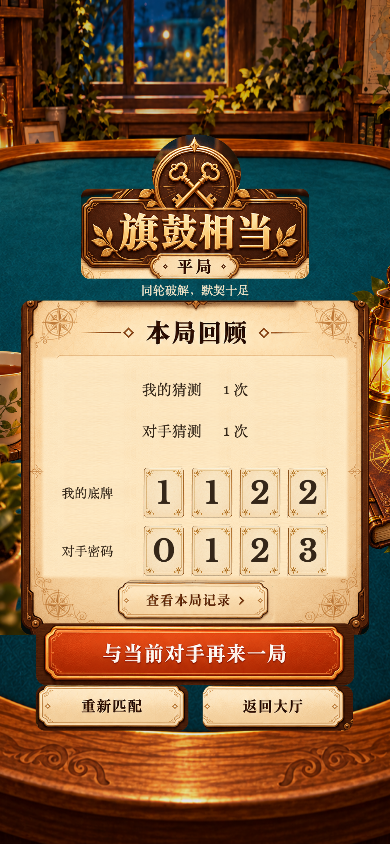
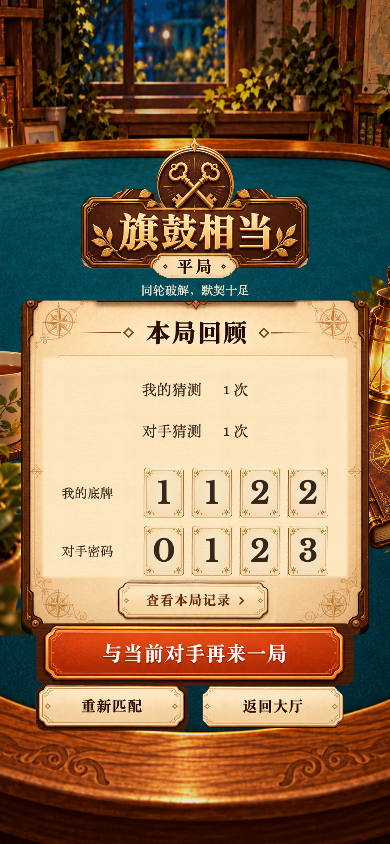
fix(ui): clean control cutouts and polish game page details

diff --git a/assets/scripts/GameApp.ts b/assets/scripts/GameApp.ts
@@ -37,6 +37,7 @@ export class GameApp extends Component {
   private roundNew?: Node;
   private feedbackArt!: FeedbackArt;
   private suppressFeedback = false;
+  private opponentFeedbackActive = false;
   private rematchNotice = '';
   private loginFailed = false;
   private endFeedbackUntil = 0;
@@ -274,7 +275,14 @@ export class GameApp extends Component {
     }
     return n;
   }
+  private setOpponentSeatVisible(visible: boolean) {
+    const room=this.root?.getChildByName('BattleRoom');
+    for(const name of ['PlayerPortrait','PlayerPortraitRim','Battle-nameplate','Battle-card-backs','OpponentNickname']) {
+      const node=room?.getChildByName(name);if(node)node.active=visible;
+    }
+  }
   private clearEffects() {
+    this.opponentFeedbackActive=false;this.setOpponentSeatVisible(true);
     if (!this.effects?.isValid) return;
     const stop = (n: Node) => { Tween.stopAllByTarget(n); const opacity = n.getComponent(UIOpacity); if (opacity) Tween.stopAllByTarget(opacity); n.children.forEach(stop); };
     for (const child of [...this.effects.children]) { stop(child); child.removeFromParent(); child.destroy(); }
@@ -285,8 +293,11 @@ export class GameApp extends Component {
   private showFeedback(event: FeedbackEvent, pending = false) {
     this.clearEffects();
     const available = this.screenHeight - this.layoutTop - bottomSafeInset() - 24;
-    const group = this.feedbackArt.group(this.effects, 'GuessFeedback', this.screenHeight / 2 - this.layoutTop - available * .29, Math.min(1, available / 1100));
     const opponent = event.kind === 'opponent', own = event.kind === 'own';
+    // Opponent feedback occupies the opponent seat, above the record sheet.
+    const battleScale = Math.min(750 / 941, (available + 8) / 1590);
+    const group = this.feedbackArt.group(this.effects, 'GuessFeedback', this.screenHeight / 2 - this.layoutTop - (opponent ? 160 * battleScale : available * .29), opponent ? battleScale : Math.min(1, available / 1100));
+    if(opponent) { group.setPosition(110*battleScale,group.position.y);group.setScale(battleScale*600/650,battleScale*600/650,1);this.opponentFeedbackActive=true;this.setOpponentSeatVisible(false); }
     const width = own ? 430 : event.kind === 'end' ? 480 : 650;
     if (this.feedbackArt.ready) {
       this.feedbackArt.image(group, event.art, 0, 0, width);
@@ -296,6 +307,8 @@ export class GameApp extends Component {
         value.font = this.friendDigitFont ?? null;
         this.feedbackArt.label(group, event.caption, 0, 126, 354, 58, 22);
       } else if (opponent) {
+        const peer = this.net.state?.room?.players.find(p => p.id !== this.net.state?.me.id);
+        if (peer) this.playerPortrait(group, peer, -230, -15, 92);
         const value = this.feedbackArt.label(group, `${event.hits} / 4`, 24, -8, 285, 96, 68, event.urgent ? '#751F23' : C.ink);value.font = this.friendDigitFont ?? null;
       } else if (event.kind === 'end') {
         // The fixed success/failure heading remains in the artwork. Overlay actual reason below.
@@ -308,7 +321,7 @@ export class GameApp extends Component {
     const opacity = group.addComponent(UIOpacity), motion = read('motion','1') === '1', scale = group.scale.clone();
     if (motion) { opacity.opacity = 0; group.setScale(scale.x*.92,scale.y*.92,1);tween(opacity).to(.16,{opacity:255}).start();tween(group).to(.2,{scale},{easing:'backOut'}).start(); }
     if (motion && opponent && event.hits === 0) tween(group).by(.07,{position:new Vec3(-6,0,0)}).by(.1,{position:new Vec3(12,0,0)}).by(.07,{position:new Vec3(-6,0,0)}).start();
-    if (!pending) tween(opacity).delay(event.urgent ? 1.8 : 1.5).to(motion ? .18 : 0,{opacity:0}).call(()=>{group.destroy();}).start();
+    if (!pending) tween(opacity).delay(event.urgent ? 1.8 : 1.5).to(motion ? .18 : 0,{opacity:0}).call(()=>{group.destroy();if(opponent){this.opponentFeedbackActive=false;this.setOpponentSeatVisible(true);}}).start();
   }
   private turnCue(message: string) {
     if (Date.now() < this.endFeedbackUntil) return;
@@ -673,10 +686,10 @@ export class GameApp extends Component {
     const group = this.n('FriendRoom', 375, 667, 941, 1672);
     group.setPosition(0, this.screenHeight / 2 - this.layoutTop + 32 * scale);
     group.setScale(scale, scale, 1);
-    // Keep navigation fixed; use tall-screen space below the body, like the reference.
+    // Keep navigation fixed and use only a small share of surplus height above the content.
     const bodyBottom = this.layoutTop + (1495 - 32) * scale;
     const targetBottom = this.screenHeight - bottomSafeInset() - Math.min(120, this.screenHeight * .09);
-    const bodyShift = Math.max(0, targetBottom - bodyBottom) / scale;
+    const bodyShift = Math.max(0, targetBottom - bodyBottom) / scale * .25;
     const place = (node: Node, x: number, y: number) => { node.setPosition(x - 470.5, -y - (y > 128 ? bodyShift : 0)); return node; };
     const art = (name: string, x: number, y: number, w: number, h: number, action?: () => void) => {
       const node = place(this.n('Friend-' + name, 375, 667, w, h, group), x, y);
@@ -737,7 +750,7 @@ export class GameApp extends Component {
     group.setPosition(0, this.screenHeight / 2 - this.layoutTop + 20 * scale); group.setScale(scale, scale, 1);
     const place = (node: Node, x: number, y: number) => { node.setPosition(x - 470.5, -y); return node; };
     const touch = (node: Node, action: () => void, enabled = true) => {
-      if (!enabled) { node.addComponent(UIOpacity).opacity = 170; return; }
+      if (!enabled) { const sprite = node.getComponent(Sprite); if (sprite) sprite.grayscale = true; node.addComponent(UIOpacity).opacity = 145; return; }
       node.on(Node.EventType.TOUCH_START, () => { if (read('motion', '1') === '1') node.setScale(.98, .98, 1); });
       node.on(Node.EventType.TOUCH_CANCEL, () => node.setScale(1, 1, 1));
       node.on(Node.EventType.TOUCH_END, () => { node.setScale(1, 1, 1); this.audio.unlock(); action(); });
@@ -760,10 +773,10 @@ export class GameApp extends Component {
     const shortName = (name: string, limit: number) => Array.from(name).length > limit ? Array.from(name).slice(0,limit-1).join('')+'…' : name;
     // The tray is below all controls and hands; each key remains independently clickable.
     art(prep ? 'tray' : 'play-tray');
-    art('opponent');
-    const nameplate=art('nameplate');
+    this.playerPortrait(group, opponent, 0, -65, 126);
+    const nameplate=art('nameplate',[355,134,586,179]);
     touch(nameplate,()=>this.toast(opponent.name+(opponent.online?'':' · 连接中')));
-    label(shortName(opponent.name,6),472,153,23,134,C.cream,30);
+    label(shortName(opponent.name,7),472,156,29,208,C.cream,38).node.name='OpponentNickname';
     art('card-backs');
     const nav = art('round');
     const navText = (value: string, x: number, width: number, parent = nav) => {
@@ -789,13 +802,13 @@ export class GameApp extends Component {
     touch(nav, () => { if (prep) this.ask('leave',()=>this.act('leave')); else { this.overlay='gameMenu';this.render(); } });
     const editable = !this.busy && this.net.online && (prep ? !r.ownSecret : r.current === me.id && this.net.now() >= r.startAt);
     if (prep) {
-      art('status'); label(opponent.ready ? '对手已准备' : '对手正在设置',470,323,23,170,C.cream);
+      art('status',[355,299,586,344]); label(opponent.ready ? '对手已准备' : '对手正在设置',470,323,28,215,C.cream);
       art('heading'); art('timer');
       this.timerLabel=label('',497,489,42,70,'#FFD978',54);
       if(this.friendDigitFont) this.timerLabel.font=this.friendDigitFont;
       this.timerLabel.lineHeight=46;
       label('s',540,493,29,20,'#FFD978',38);
-      const rules=art('rules'); touch(rules,()=>{this.overlay='rules';this.render();});
+      const rules=art('rules',[243,523,699,589]); touch(rules,()=>{this.overlay='rules';this.render();});
       const value=r.ownSecret ?? this.draft;
       // Palm behind the cards; only the isolated thumb crosses their front edge.
       art('hand-right');
@@ -849,12 +862,13 @@ export class GameApp extends Component {
       const rim=this.profileArt.get('portrait-frame');
       if(rim) art('portrait-frame',[23,995,213,1185],rim);
       art('nameplate',[18,1154,213,1192]);
-      label(shortName(me.name,7),115,1173,24,181,C.cream);
-      const secretStatus=art('status',[315,1106,626,1151]);
+      label(shortName(me.name,6),115,1173,29,181,C.cream);
+      const secretStatus=art('status',[285,1100,656,1155]);
       touch(secretStatus,()=>{this.hideSecret=!this.hideSecret;this.render();});
-      label(this.hideSecret?'底牌已隐藏 · 点击查看':'我的底牌 · 已锁定',470,1128,23,280,C.cream);
+      label(this.hideSecret?'底牌已隐藏 · 点击查看':'我的底牌 · 已锁定',470,1128,28,350,C.cream);
       art('turn');this.timerLabel=label('',470,1190,28,330,C.cream,48);
     }
+    if(this.opponentFeedbackActive)this.setOpponentSeatVisible(false);
     const prefix=prep?'prep-':'play-';
     for(const key of ['1','2','3','4','5','6','7','8','9','delete','0','action']) {
       const node=art(prefix+key);
@@ -992,16 +1006,28 @@ export class GameApp extends Component {
       if(result.confirm&&this.isValid&&!this.net.state?.room&&this.net.state?.queuedAt===null)this.openProfile();
     }});
   }
-  private avatarFrame(profile: { avatarUrl?: string }): SpriteFrame | undefined {
-    const url=avatarUrl(profile.avatarUrl);if(!url)return;
-    if(this.remoteAvatars.has(url))return this.remoteAvatars.get(url)??undefined;
+  private avatarFrame(profile: { avatarUrl?: string; avatar?: number }): SpriteFrame | undefined {
+    const fallback = this.profileArt.get('avatar-' + (((profile.avatar ?? 0) % 4 + 4) % 4));
+    const url=avatarUrl(profile.avatarUrl);if(!url)return fallback;
+    if(this.remoteAvatars.has(url))return this.remoteAvatars.get(url)??fallback;
     this.remoteAvatars.set(url,null);
     assetManager.loadRemote<ImageAsset>(url,{ext:'.png'},(error,image)=>{
       if(error||!this.isValid)return;
       const texture=new Texture2D();texture.image=image;
       const frame=new SpriteFrame();frame.texture=texture;this.remoteAvatars.set(url,frame);this.render();
     });
-    return;
+    return fallback;
+  }
+  /** Reuse the same circular identity in the opponent seat and transient feedback. */
+  private playerPortrait(parent: Node, profile: { avatar: number; avatarUrl?: string }, x: number, y: number, size: number) {
+    const clip = this.n('PlayerPortrait',375,667,size,size,parent);clip.setPosition(x,y);
+    clip.addComponent(Mask).type = Mask.Type.GRAPHICS_ELLIPSE;
+    const face = this.n('PlayerPortraitImage',375,667,size,size,clip);face.setPosition(0,0);
+    const sprite = face.addComponent(Sprite);sprite.spriteFrame = this.avatarFrame(profile) ?? null;sprite.sizeMode = Sprite.SizeMode.CUSTOM;
+    face.getComponent(UITransform)!.setContentSize(size,size);
+    const rim = this.n('PlayerPortraitRim',375,667,size*1.1,size*1.1,parent);rim.setPosition(x,y);
+    const frame = rim.addComponent(Sprite);frame.spriteFrame=this.profileArt.get('portrait-frame')??null;frame.sizeMode=Sprite.SizeMode.CUSTOM;
+    rim.getComponent(UITransform)!.setContentSize(size*1.1,size*1.1);
   }
   private async authorizeProfile() {
     if(this.busy||this.profileMotion)return;
@@ -1034,7 +1060,7 @@ export class GameApp extends Component {
   private async copyRoomCode(code: string) {try{await copy(code);this.toast('口令已复制：'+code);}catch(e){this.toast((e as Error).message);}}
   private openProfile() {
     const me = this.net.state?.me; if (!me || this.profileMotion) return;
-    this.nickname = me.name; this.avatar = me.avatar; this.draftAvatarUrl=me.avatarUrl??''; this.page = 'profile'; this.profileMotionFrom = undefined; this.profileMotionTo = undefined;
+    this.nickname = me.name; this.avatar = ((me.avatar % 4) + 4) % 4; this.draftAvatarUrl=me.avatarUrl??''; this.page = 'profile'; this.profileMotionFrom = undefined; this.profileMotionTo = undefined;
     this.profileMotion = read('motion', '1') === '1' ? 'in' : '';
     this.profileMotionElapsed = 0; this.profileMotionFrames = 0; this.render();
   }
@@ -1119,7 +1145,7 @@ export class GameApp extends Component {
       if (!this.profileSprite('heading', 375, 165, 300, 89)) this.text('个人资料', 375, 165, 40);
       this.profileBack = this.profileButton('back', '返回', 100, 85, 166, 62, () => this.closeProfile());
       this.profileSprite('portrait-background', 375, 365, 320, 320);
-      if (!this.profileSprite('avatar-' + this.avatar, 375, 365, 190, 190, this.avatarFrame({avatarUrl:this.draftAvatarUrl}))) {
+      if (!this.profileSprite('avatar-' + this.avatar, 375, 365, 190, 190, this.avatarFrame({avatarUrl:this.draftAvatarUrl,avatar:this.avatar}))) {
         this.box(375, 365, 180, 180, C.blue, 90); this.text(AVATARS[this.avatar], 375, 365, 72, C.cream, 150, 120);
       }
       this.profileSprite('portrait-frame', 375, 365, 234, 234);

diff --git a/scripts/slice-feedback.py b/scripts/slice-feedback.py
@@ -1,7 +1,7 @@
 """Feedback v1 only. Rectangles are source pixel LTRB; no old assets overwritten."""
 from pathlib import Path
 from PIL import Image,ImageDraw,ImageFilter
-import json,uuid,statistics
+import json,uuid,statistics,sys
 import imagequant
 R=Path(__file__).resolve().parents[1]; D=R/'docs/design/feedback-v1'; O=R/'assets/resources/art/feedback';O.mkdir(parents=True,exist_ok=True)
 plan=[]
@@ -67,10 +67,23 @@ for a in plan:
   x,y=a['rect'][:2];a['repairs']=[[[x+36,y+300,x+420,y+443],clean[a['source']]]]
  for patch in a['repairs']:patch[1]=clean[a['source']]
  a['repairSource']='assets/resources/art/modals/record-row.png, crop [190,12,420,59], mirrored texture tile; reconstructed blank area, not lossless source extraction'
+contours={
+ 'draw-title':[(0,204),(10,184),(24,177),(87,177),(104,165),(126,157),(181,155),(210,172),(222,195),(429,195),(445,163),(472,155),(515,156),(549,177),(627,177),(645,190),(650,209),(650,348),(642,370),(623,381),(441,381),(427,400),(402,410),(247,410),(220,399),(205,382),(27,382),(9,373),(0,351)],
+ 'result-home':[(0,23),(11,13),(17,3),(316,3),(325,13),(336,23),(339,29),(339,81),(329,91),(321,103),(17,103),(8,92),(0,84)],
+ 'home':[(16,25),(24,17),(31,6),(320,6),(330,16),(338,22),(338,96),(328,102),(320,111),(31,111),(23,101),(16,95)]
+}
+
+for a in plan:
+ if a['name'] in contours:
+  a['mask']='local source-crop silhouette at 3x supersampling; draw-title also uses crest ellipse [216,31,436,251] and top finial'
+  a['contour']=contours[a['name']]
 # Manifest written BEFORE producing assets.
 (D/'implementation-slices.json').write_text(json.dumps({'coordinates':'source pixel LTRB','assets':plan},ensure_ascii=False,indent=2)+'\n')
+# Optional targeted recut: never rewrite unrelated textures or the size registry.
+selected=set(sys.argv[1:])
 frames={}
 for a in plan:
+ if selected and a['name'] not in selected:continue
  im=Image.open(D/a['source']).convert('RGBA')
  for dest,sample in a['repairs']:
   l,t,r,b=dest
@@ -96,6 +109,15 @@ for a in plan:
  if a['name']=='defeat-title':
   draw.rectangle((0,0,mask.width,mask.height),fill=0)
   draw.polygon([(x*3,y*3) for x,y in [(83,300),(142,303),(173,263),(190,225),(315,203),(360,179),(405,172),(430,147),(462,138),(470,113),(487,140),(517,152),(548,175),(595,187),(625,204),(735,209),(755,237),(795,274),(860,300),(827,332),(849,359),(848,401),(795,401),(770,414),(175,414),(150,401),(90,401),(90,364),(117,336)]],fill=255)
+ # Follow the actual ornament/button outline, not the rectangular screenshot crop.
+ # Coordinates below are local to each source rect; supersampling preserves antialiasing.
+ if a['name'] in contours:
+  draw.rectangle((0,0,mask.width,mask.height),fill=0)
+  l,t,_,_=a['rect']
+  draw.polygon([((l+x)*3,(t+y)*3) for x,y in contours[a['name']]],fill=255)
+  if a['name']=='draw-title':
+   draw.ellipse(((l+216)*3,(t+31)*3,(l+436)*3,(t+251)*3),fill=255)
+   draw.polygon([((l+x)*3,(t+y)*3) for x,y in [(306,42),(318,24),(325,7),(333,26),(347,44)]],fill=255)
  mask=mask.resize(im.size,Image.Resampling.LANCZOS);im.putalpha(mask)
  tile=im.crop(a['rect']);tile.thumbnail((850,850),Image.Resampling.LANCZOS)
  packed=imagequant.quantize_pil_image(tile,min_quality=80,max_quality=93);packed.save(O/(a['name']+'.png'),optimize=True)
@@ -107,6 +129,6 @@ for color,name in [('#173b36','dark'),('#fff4df','light')]:
  sheet=Image.new('RGB',(1200,((len(frames)+3)//4)*250),color);d=ImageDraw.Draw(sheet)
  for i,(key,tile) in enumerate(frames.items()):
   tile=tile.copy();tile.thumbnail((285,220));x=i%4*300;y=i//4*250;sheet.paste(tile,(x,y+24),tile);d.text((x,y),key,fill='#c08050')
- sheet.save(D/(name+'-slices.jpg'))
-(R/'assets/scripts/shared/feedback-art.ts').write_text('// Generated by scripts/slice-feedback.py\nexport const FEEDBACK_SIZES: Record<string, readonly number[]> = '+json.dumps({k:list(v.size) for k,v in frames.items()},indent=2)+';\n')
-print(len(plan),'assets generated')
+ sheet.save(D/(name+('-recut' if selected else '-slices')+'.jpg'))
+if not selected:(R/'assets/scripts/shared/feedback-art.ts').write_text('// Generated by scripts/slice-feedback.py\nexport const FEEDBACK_SIZES: Record<string, readonly number[]> = '+json.dumps({k:list(v.size) for k,v in frames.items()},indent=2)+';\n')
+print(len(frames),'assets generated')

diff --git a/docs/verification/page-details/README.md b/docs/verification/page-details/README.md
@@ -1,0 +1,35 @@
+# Overview detail fixes — 2026-10-29
+
+## Changes
+
+- Default avatar IDs 0–7 now consistently map to the four existing illustrated portraits. The profile draft/selection uses the same mapping; saves persist the selected ID. Existing server records do not need migration. Remote WeChat portraits retain priority and use the same illustrated fallback while loading/failing.
+- Opponent seat and guess feedback share the actual player's portrait. The feedback occupies the upper-right seat region, leaving round navigation and guess records visible. The underlying seat identity/cards hide temporarily, including across UI redraws, and restore after feedback.
+- Unavailable preparation/guess controls use grayscale and reduced opacity; four valid input digits restore the active state.
+- Friend waiting content moves upward by reducing tall-screen surplus spacing; navigation stays fixed.
+- Opponent/local nicknames, preparation status, rules artwork and secret status have larger readable regions. Long opponent names truncate and remain tappable for the full name.
+- Recut the original draw crest and both return-to-lobby buttons: removed the room backdrop above the crest, paper corners around the orange button, and wood behind the cream button.
+
+## Art pipeline
+
+Sources remain `docs/design/feedback-v1/07-draw-result.png`, `05-cancelled-states.png`, and `06-defeat-result.png`. `implementation-slices.json` records source LTRB rectangles and local outline coordinates. Existing resource UUIDs and dimensions are preserved.
+
+The three fixed control layers are original artwork, with corrected supersampled alpha contours from the editable extraction pipeline; no replacement system-drawn controls. Avatar content is a separate circular layer with the existing hollow portrait frame. Text, selection, disabled state and transient visibility remain native UI.
+
+An imagegen cleanup attempt was evaluated but rejected because its background was not cleanly transparent. No generated replacement was shipped. The existing native slicing pipeline was repaired instead:
+
+```sh
+uv run --with pillow --with imagequant python scripts/slice-feedback.py draw-title home result-home
+```
+
+`light-recut.jpg` and `dark-recut.jpg` in the design folder show the isolated controls against both backgrounds. Targeted recuts leave all other textures and the size registry untouched.
+
+## Verification
+
+- `npm test`: 46 passed.
+- `npm run typecheck`, `npm run typecheck:client`: passed.
+- `verify-journey.cjs`: real two-client match through lobby/profile/friend room/preparation/reply/draw/records/rematch/leave and matching cancellation; refreshed journey screenshots and overview.
+- `verify-feedback.cjs`: opponent/own feedback, timeout/cancellation/results, rematch, controls, motion and short-screen regression passed.
+- `verify-page-details.cjs`: legacy ID 7 maps to selected portrait 3; disabled/enabled guess controls; feedback bounds do not intersect navigation or records at 390×844 and 390×600; the seat restores after feedback even with an intermediate redraw.
+- `npm run build:wechat`: passed, output `build/wechatgame/`; main package 1976.8 KB, resource subpackage total 37784.7 KB. `verify-wechat-feedback.mjs` passed scene/44-texture/runtime checks.
+
+These are local browser/runtime checks and WeChat export checks, not WeChat device testing or a release. No server deployment in this task.
